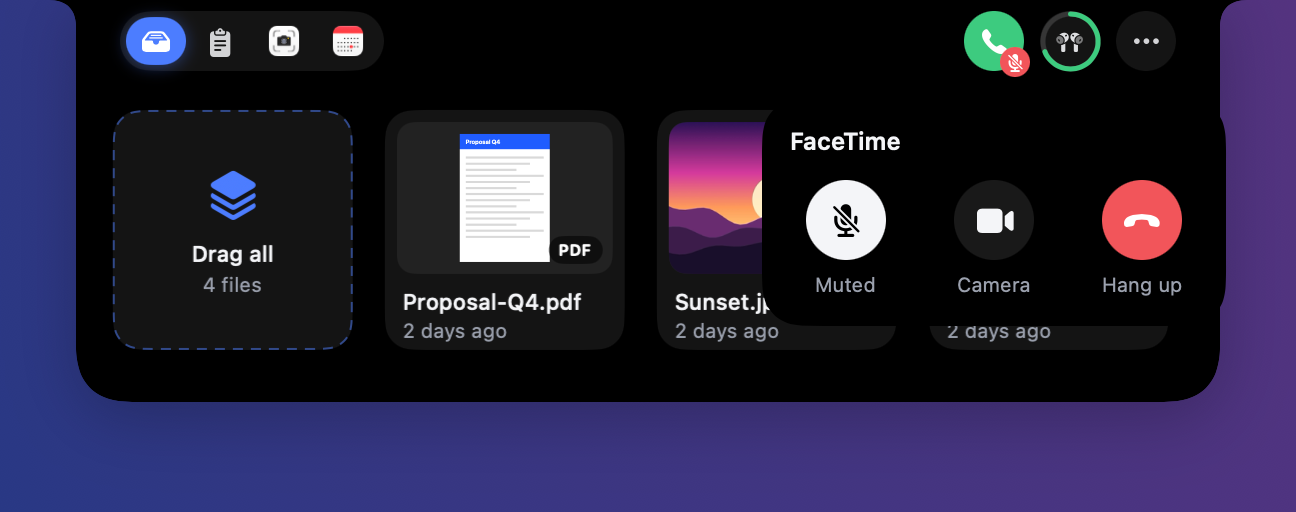
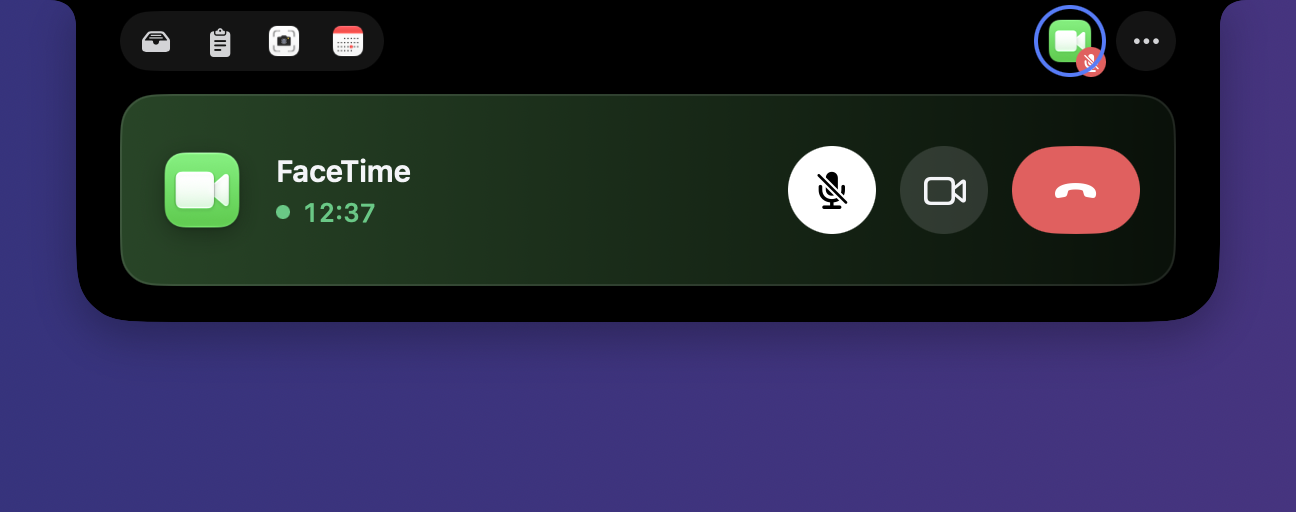
Version 0.23.0: what's new, README with the call, music and AirPods screenshots

diff --git a/Nook/Notch/NotchContentView.swift b/Nook/Notch/NotchContentView.swift
@@ -87,10 +87,10 @@ struct NotchContentView: View {
         // llamada; `-VisorDemoMuted YES` lo enseña con el micro silenciado.
         .task {
             guard UserDefaults.standard.bool(forKey: "VisorOpenCall") else { return }
+            try? await Task.sleep(for: .seconds(1.5))
             if UserDefaults.standard.object(forKey: "VisorDemoMuted") != nil {
                 CallState.shared.micMuted = UserDefaults.standard.bool(forKey: "VisorDemoMuted")
             }
-            try? await Task.sleep(for: .seconds(1.5))
             model.tab = .call
         }
         #endif
@@ -217,8 +217,8 @@ struct NotchContentView: View {
 
     private var callSince: Date? {
         #if DEBUG
-        // Llamada fingida (`-VisorDemoCall`): sin micro, la duracion cuenta desde el arranque.
-        if hud.micSince == nil, UserDefaults.standard.string(forKey: "VisorDemoCall") != nil { return Self.launch }
+        // Llamada fingida (`-VisorDemoCall`): la duracion cuenta desde el arranque.
+        if UserDefaults.standard.string(forKey: "VisorDemoCall") != nil { return Self.launch }
         #endif
         return hud.micSince
     }

diff --git a/Nook/Features/Onboarding/WhatsNewView.swift b/Nook/Features/Onboarding/WhatsNewView.swift
@@ -11,8 +11,12 @@ enum WhatsNew {
     }
 
     static let notes: [Note] = [
-        Note(icon: "phone.fill", title: "Llamadas de FaceTime y del iPhone",
-             detail: "El botón de llamada sale también en FaceTime y en las llamadas del iPhone que suenan en el Mac (en estas, solo el micro)."),
+        Note(icon: "phone.fill", title: "Tu llamada, al pasar el ratón",
+             detail: "En una llamada, el notch se abre en ella: el icono de su app, lo que dura, y silenciar, cámara y colgar con su estado real."),
+        Note(icon: "airpodspro", title: "Cada modelo de AirPods",
+             detail: "Al conectarlos, el aviso muestra tu modelo, también los AirPods Pro 3, y su nombre entero."),
+        Note(icon: "music.note", title: "Más vivo y más claro",
+             detail: "La música se abre al pasar el ratón mientras suena, los números cambian sin saltos y los desplegables se distinguen del negro del notch."),
     ]
 
     static var version: String {

diff --git a/Nook/Services/BatteryCenter.swift b/Nook/Services/BatteryCenter.swift
@@ -30,7 +30,7 @@ final class BatteryCenter {
             #if DEBUG
             // `-VisorDemoBattery YES`: unos AirPods de ejemplo para probar el boton sin tenerlos.
             if UserDefaults.standard.bool(forKey: "VisorDemoBattery") {
-                list = [AccessoryBattery(name: "AirPods Pro", icon: "airpodspro", levels: [("L", 82), ("R", 79), (AccessoryBattery.casePart, 64)])]
+                list = [AccessoryBattery(name: "AirPods Pro", icon: AccessoryBattery.firstAvailable(["airpods.pro.gen3", "airpods.pro", "airpodspro"]), levels: [("L", 82), ("R", 79), (AccessoryBattery.casePart, 64)])]
             }
             #endif
             loading = false

diff --git a/README.md b/README.md
@@ -63,24 +63,30 @@ the arrow keys and press <kbd>Return</kbd>. Passwords are never saved.
 </p>
 
 While Spotify or Music is playing, its logo shows up in the notch with a ring for the song's
-progress. Click it for a small player with the artwork, the time left and previous,
-play/pause and next. When nothing else needs your attention, the closed notch shows what's
-playing.
+progress. Move the pointer to the notch and the player is already open: the artwork, the time
+left and previous, play/pause and next. When nothing else needs your attention, the closed
+notch shows what's playing.
 
 ## Calls without hunting for the window
 
 <p align="center">
-  <img src="docs/images/call.png" width="760" alt="Call button with mute, camera and hang up">
+  <img src="docs/images/call.png" width="760" alt="FaceTime call under the notch with its duration, mute, camera and hang up">
 </p>
 
-In a call on Teams, Zoom, Meet, FaceTime or Discord, a green phone button replaces the rest:
-**mute, camera and hang up** without leaving what you're doing. A red badge reminds you when
-you're muted, and the meeting reminder goes away as soon as you join. Visor doesn't repeat
-the microphone indicator macOS already shows.
+In a call on Teams, Zoom, Meet, FaceTime or Discord, move the pointer to the notch and the
+call is right there: the app's icon, how long you've been talking and big **mute, camera and
+hang up** buttons, without leaving what you're doing. In apps that say so (Teams, Zoom, Meet),
+the buttons show whether you're really muted, even if you muted from the app itself. A red
+badge reminds you when you're muted, and the meeting reminder goes away as soon as you join.
 
 ## AirPods and screenshots
 
-- **AirPods battery** for each earbud and the case, from the moment you connect them.
+<p align="center">
+  <img src="docs/images/airpods.png" width="760" alt="AirPods Pro battery for each earbud and the case">
+</p>
+
+- **AirPods battery** for each earbud and the case, from the moment you connect them, with the
+  icon of your exact model, AirPods Pro 3 included.
 - **Screenshots in their own folder:** Visor moves them off the Desktop to
   *Pictures/Screenshots* (or uses the folder you already had) and shows the latest ones in the
   notch, ready to drag.
@@ -101,7 +107,8 @@ resets**, with an alert at 80 % and 95 %.
 Volume, battery, AirPods, finished downloads, meetings, new mail, agents, Focus,
 notifications… they show up beside the notch for a moment and go away. They never cover
 your menu bar icons: if there's no room beside the notch, the alert grows below it as a small
-island, sized to its text.
+island, sized to its text. Numbers turn over smoothly, the timer ring runs continuously and
+long text, like a dictation, fades out at the start instead of being cut.
 
 **Click an alert** and the notch opens a little to show a preview, with a button to go
 straight to the mail, the session, the download or the meeting.
@@ -185,4 +192,6 @@ Notifications to keep the Focus alert; without it, the release ships without tha
 
 ## License
 
-[MIT](LICENSE)
+[MIT](LICENSE). The continuous corners of the notch and some spring values are adapted from
+[islandcn](https://github.com/opencoredev/islandcn) (MIT); see
+[THIRD_PARTY_NOTICES](THIRD_PARTY_NOTICES.md).
